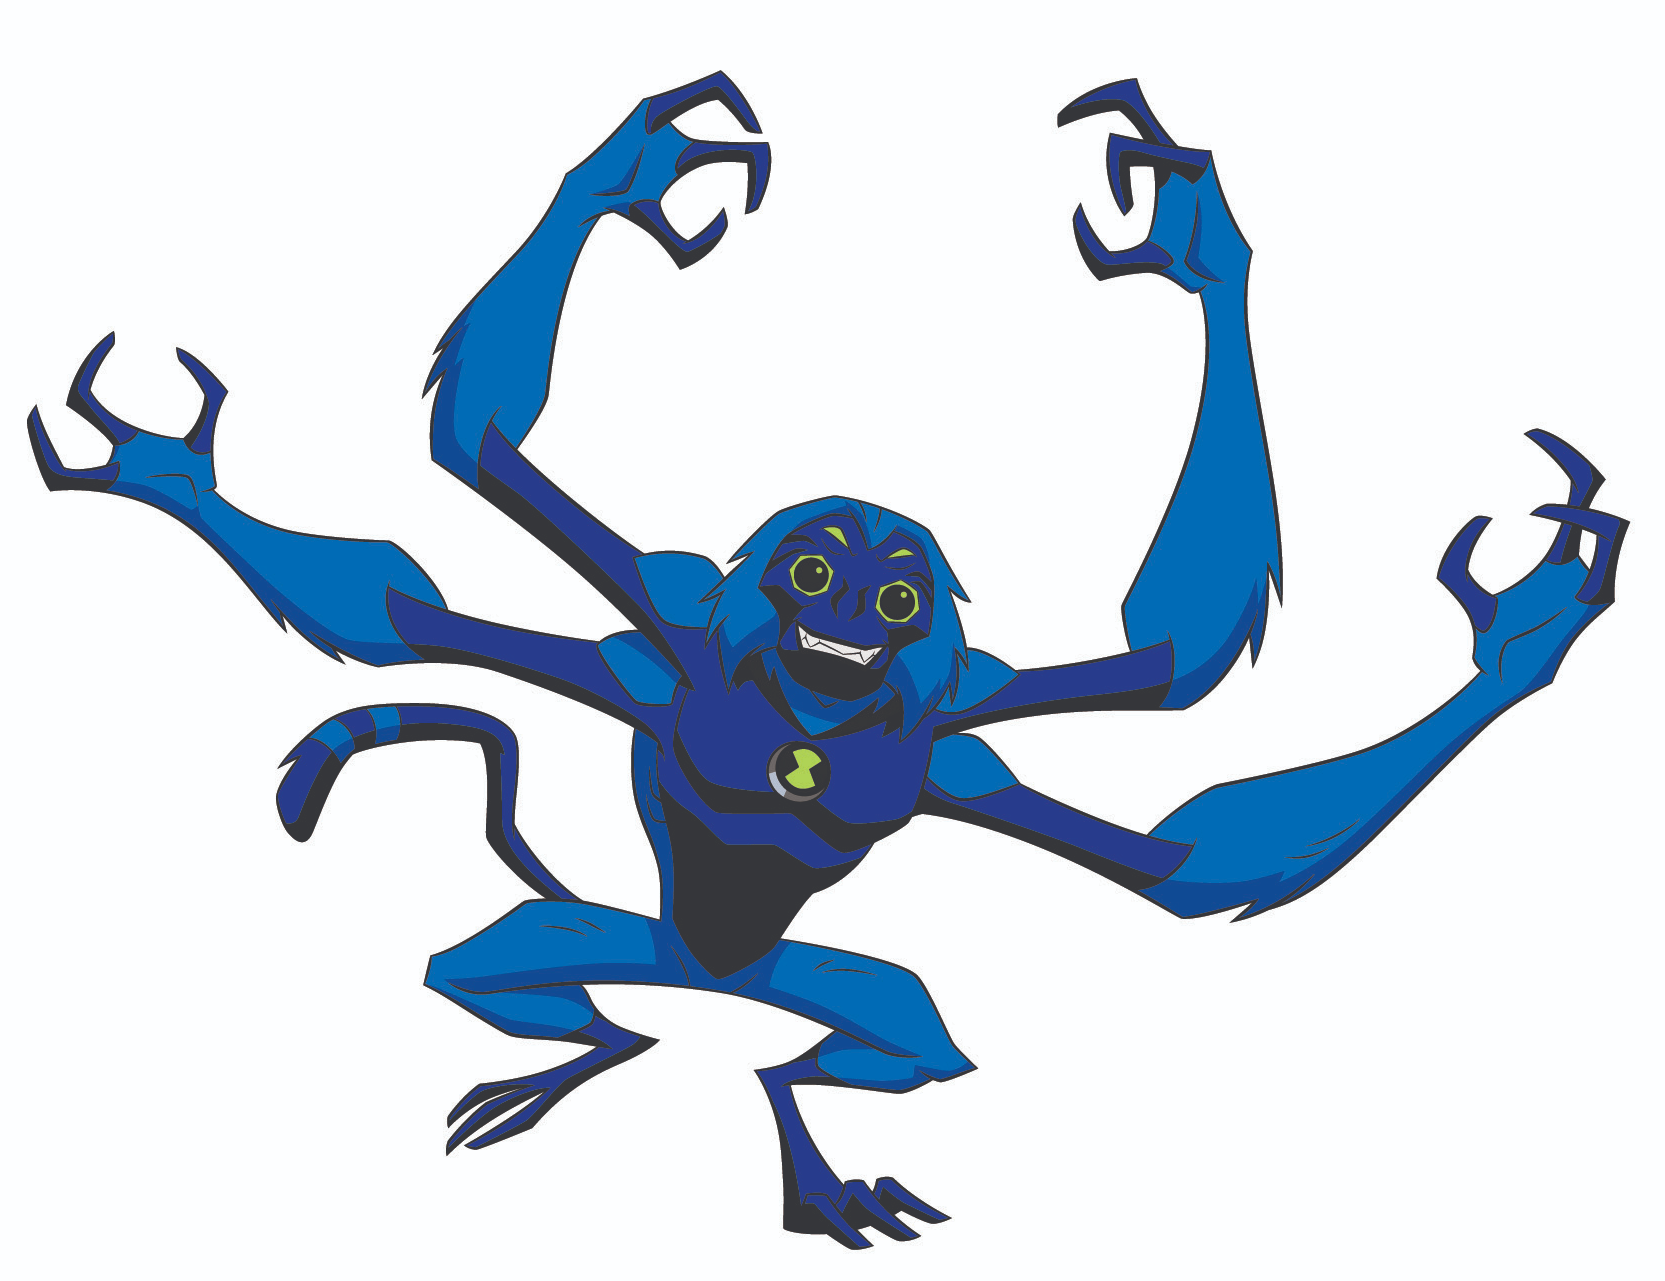
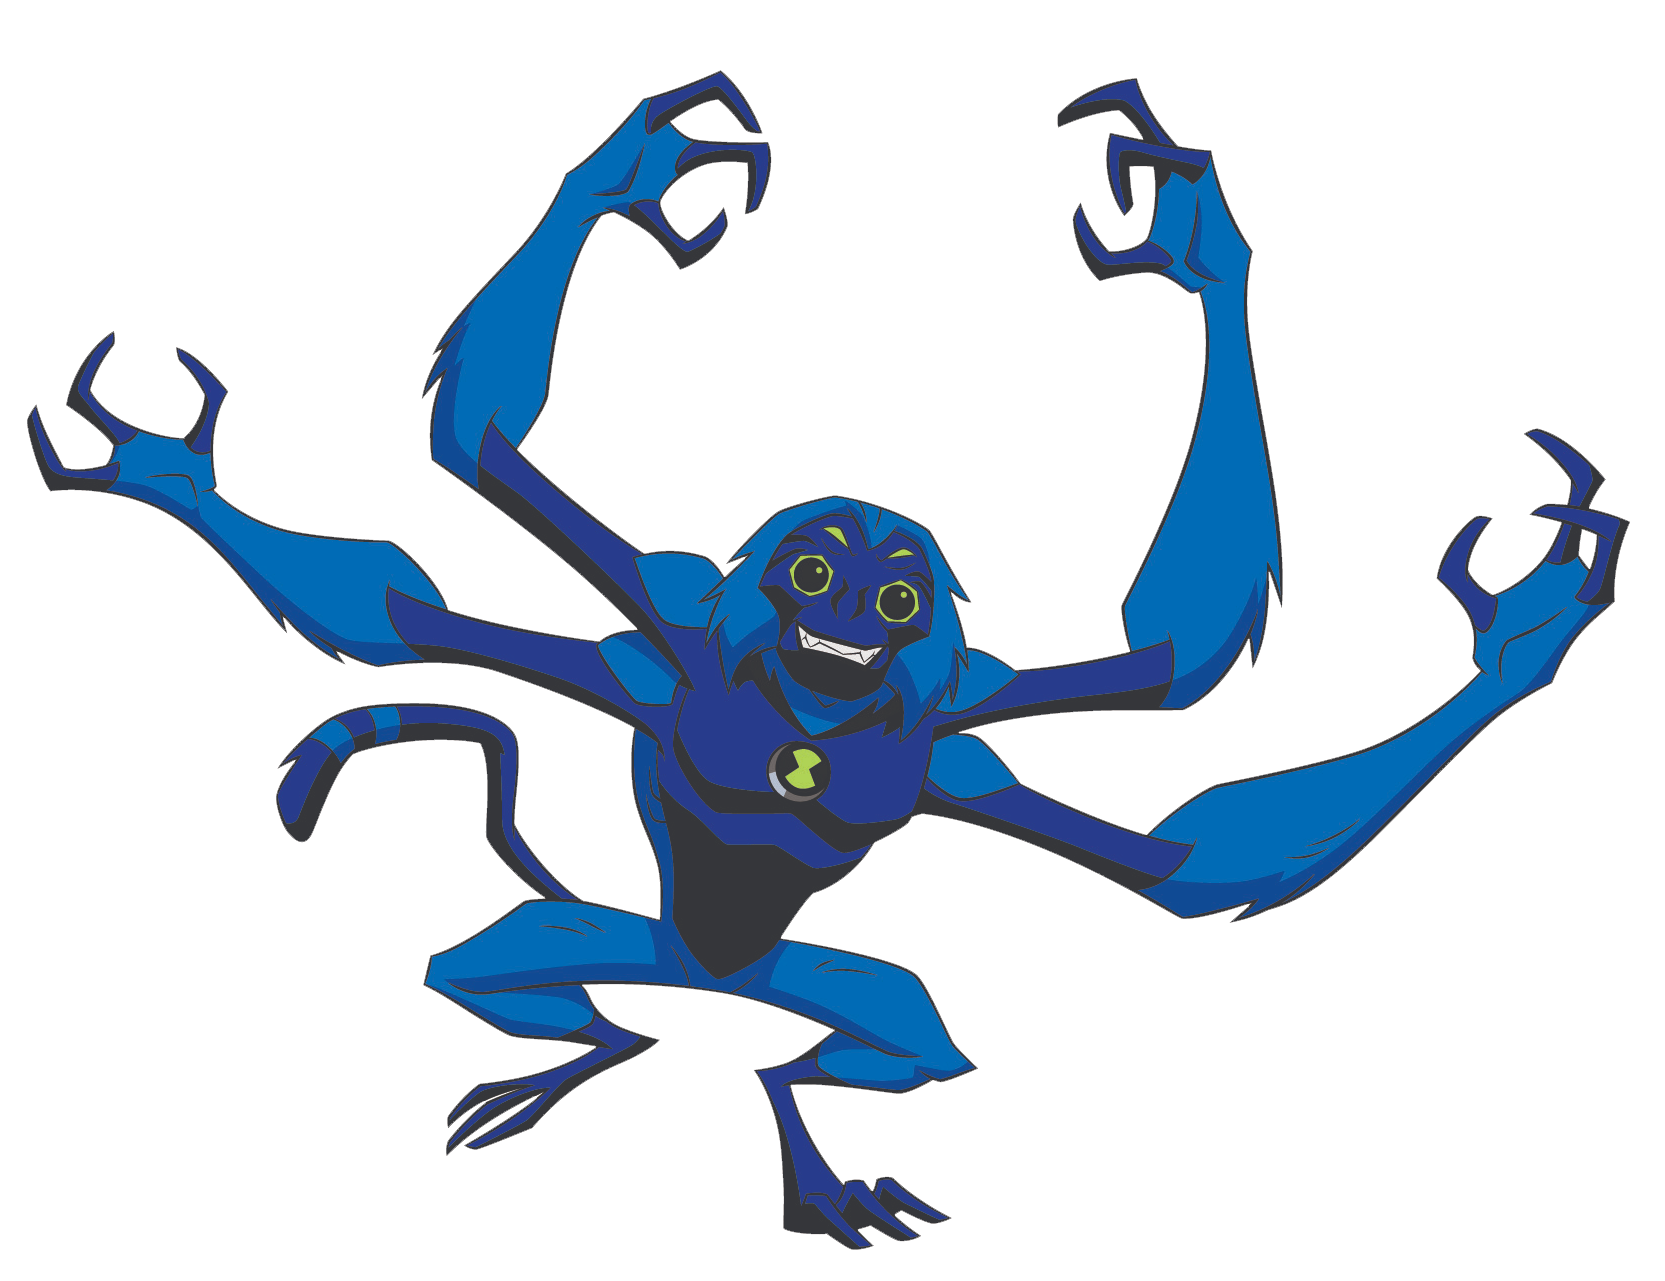
adicionado todos os aliens do ben principal de alien force

diff --git a/index.html b/index.html
@@ -391,6 +391,59 @@
                         
                                     </div>
 
+                                    <div id="aliens-cards" class="row card-row-three"> 
+
+                                        <div id="alien-card" class="col-lg-3 lodestar">
+                                            <img src="img/retângulos/retangulo 4.jpg" alt="Retângulo 1" class="img-fluid" data-toggle="modal" data-target="#LodeStarModal">
+                                            <img src="img/aliens/ben-principal/af/Estrela Polar (AF) 2.png" alt="Estrel Polar" data-toggle="modal" data-target="#LodeStarModal">
+                                
+                                            <a href="https://ben10.fandom.com/wiki/Lodestar" target="_blank"><h4>Estrela Polar</h4></a>
+                                        </div>
+                        
+                                        <div id="alien-card" class="col-lg-3 swampfire">
+                                            <img src="img/retângulos/retangulo 4.jpg" alt="Retângulo 1" class="img-fluid" data-toggle="modal" data-target="#SwampFireModal">
+                                            <img src="img/aliens/ben-principal/af/Fogo Selvagem (af) 1.png" alt="Fogo Fátuo" data-toggle="modal" data-target="#SwampFireModal">
+                                
+                                            <a href="https://ben10.fandom.com/wiki/Swampfire" target="_blank"><h4>Fogo Fátuo</h4></a>
+                                        </div>
+                        
+                                        <div id="alien-card" class="col-lg-3 goop">
+                                            <img src="img/retângulos/retangulo 4.jpg" alt="Retângulo 1" class="img-fluid" data-toggle="modal" data-target="#GoopModal">
+                                            <img src="img/aliens/ben-principal/af/gosma (af) 1.png" alt="Gosma" data-toggle="modal" data-target="#GoopModal">
+                                
+                                            <a href="https://ben10.fandom.com/wiki/Goop_(Classic)" target="_blank"><h4>Gosma</h4></a>
+                                        </div>
+                        
+                                        <div id="alien-card" class="col-lg-3 spidermonkey">
+                                            <img src="img/retângulos/retangulo 4.jpg" alt="Retângulo 1" class="img-fluid" data-toggle="modal" data-target="#SpiderMonkeyModal">
+                                            <img src="img/aliens/ben-principal/af/macaco aranha (af) 4.png" alt="Macaco Aranha" data-toggle="modal" data-target="#SpiderMonkeyModal">
+                                
+                                            <a href="https://ben10.fandom.com/wiki/Spidermonkey" target="_blank"><h4>Macaco Aranha</h4></a>
+                                        </div>
+                        
+                                    </div>
+
+                                    <div id="aliens-cards" class="row card-row-four justify-content-center"> 
+
+                                        <div id="alien-card" class="col-lg-3 nanomech">
+                                            <img src="img/retângulos/retangulo 4.jpg" alt="Retângulo 1" class="img-fluid" data-toggle="modal" data-target="#NanoMechModal">
+                                            <img src="img/aliens/ben-principal/af/Nanomech (af) 2.png" alt="Nanomech" data-toggle="modal" data-target="#NanoMechModal">
+                                
+                                            <a href="https://ben10.fandom.com/wiki/Nanomech" target="_blank"><h4>Nanomech</h4></a>
+                                        </div>
+                        
+                                        <div id="alien-card" class="col-lg-3 rath">
+                                            <img src="img/retângulos/retangulo 4.jpg" alt="Retângulo 1" class="img-fluid" data-toggle="modal" data-target="#RathModal">
+                                            <img src="img/aliens/ben-principal/af/Rath (af) 2.png" alt="Rath" data-toggle="modal" data-target="#RathModal">
+                                
+                                            <a href="https://ben10.fandom.com/wiki/Rath_(Classic)" target="_blank"><h4>Rath</h4></a>
+                                        </div>
+
+                                    </div>
+
+                                    <h6>Aliens do Clássico no traço de Alien Force</h6>
+                                    <hr>
+
                                 </div>
 
                                 <!--SUPREMACIA ALIENÍGENA-->
